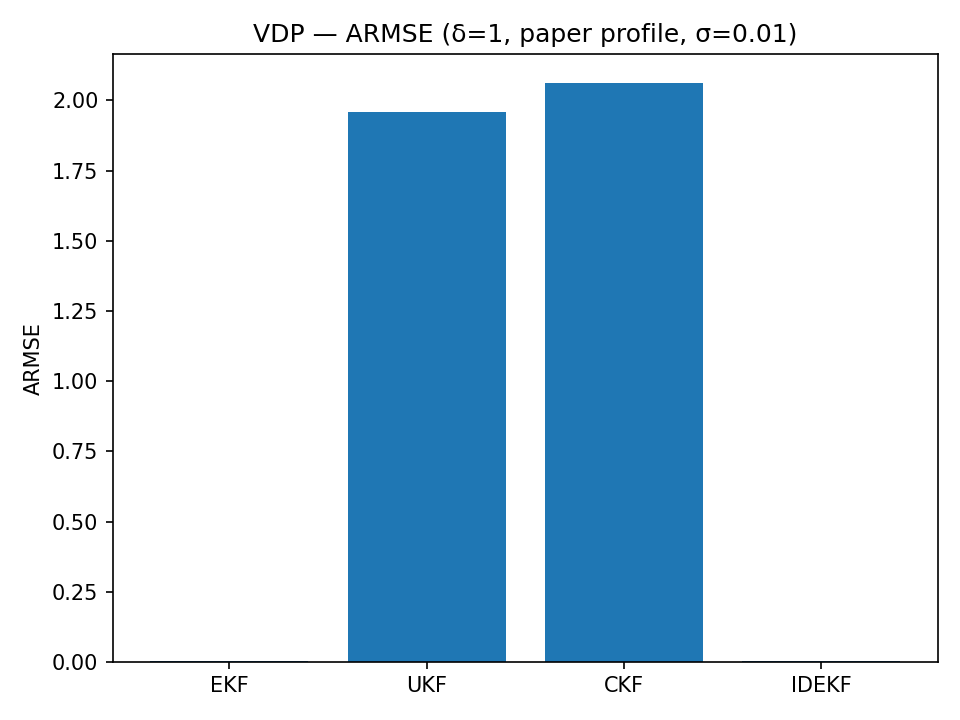
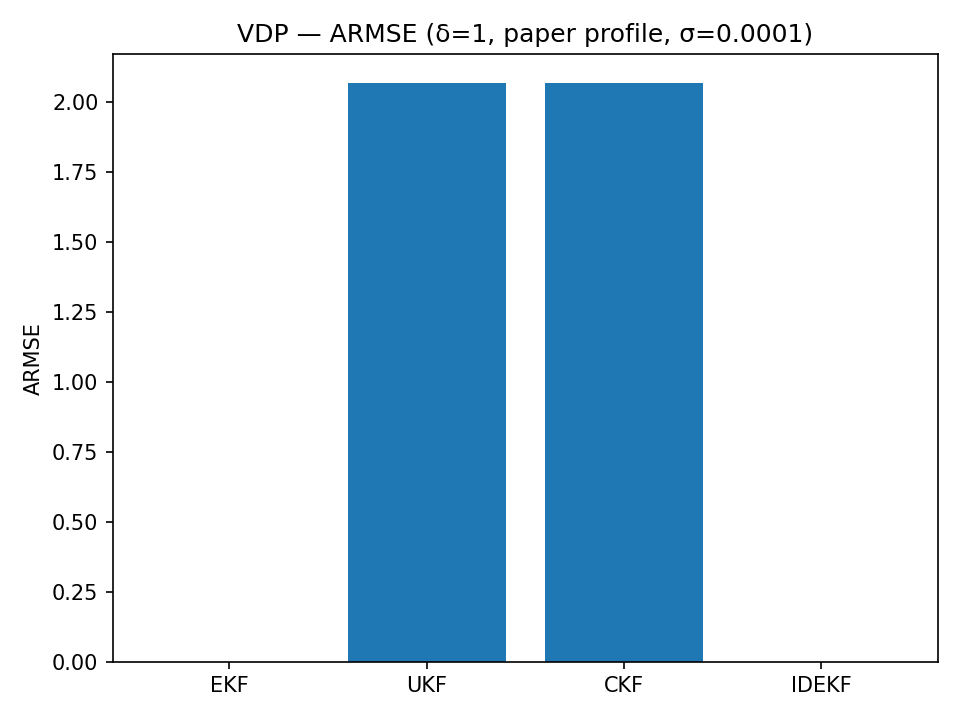
edits

diff --git a/run_armse_ill.py b/run_armse_ill.py
@@ -269,7 +269,7 @@ if __name__ == "__main__":
     slow = [0.1, 0.2, 0.3, 0.4, 0.5, 0.6, 0.7, 0.8, 0.9, 1.0]
     parser.add_argument("--deltas", type=float, nargs="*", default=slow)
     parser.add_argument("--profile", choices=["paper", "harsh"], default="paper")
-    sigma = 1e-4
+    sigma = 1e-6
     parser.add_argument("--sigma", type=float, default=sigma,
                         help="If set (>0) and case=vdp, use ill-conditioned 2x output: [[1,1],[1,1+sigma]] with R=diag(sigma^2).")
     args = parser.parse_args()
